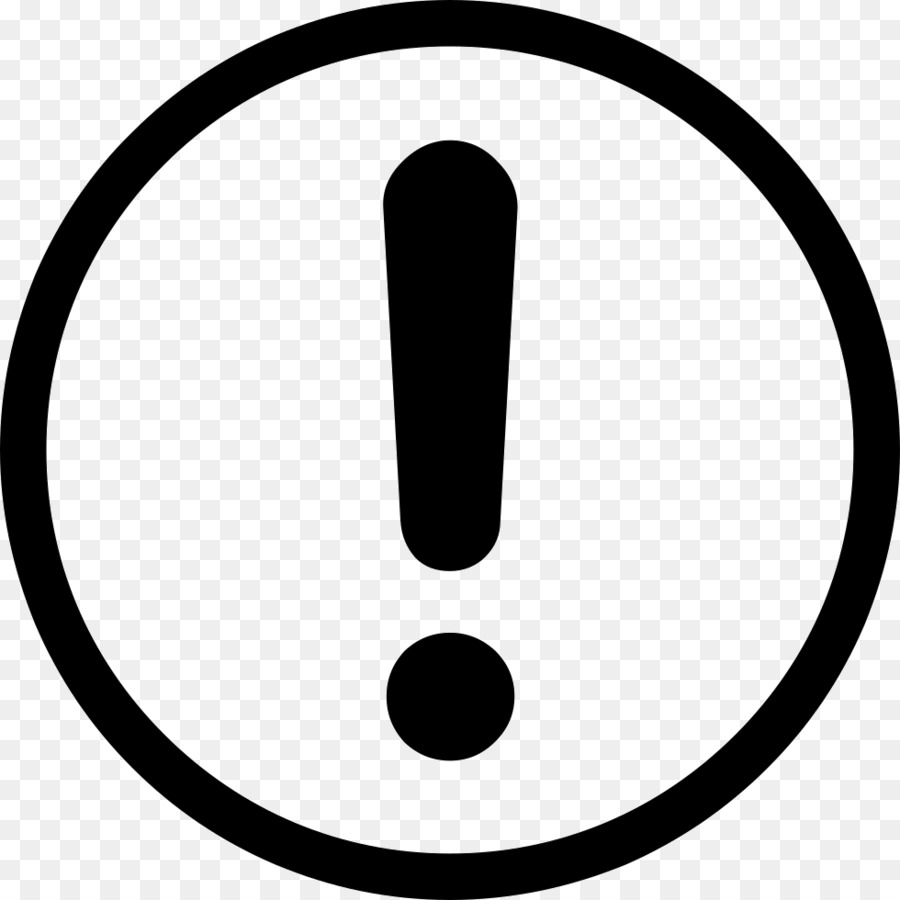
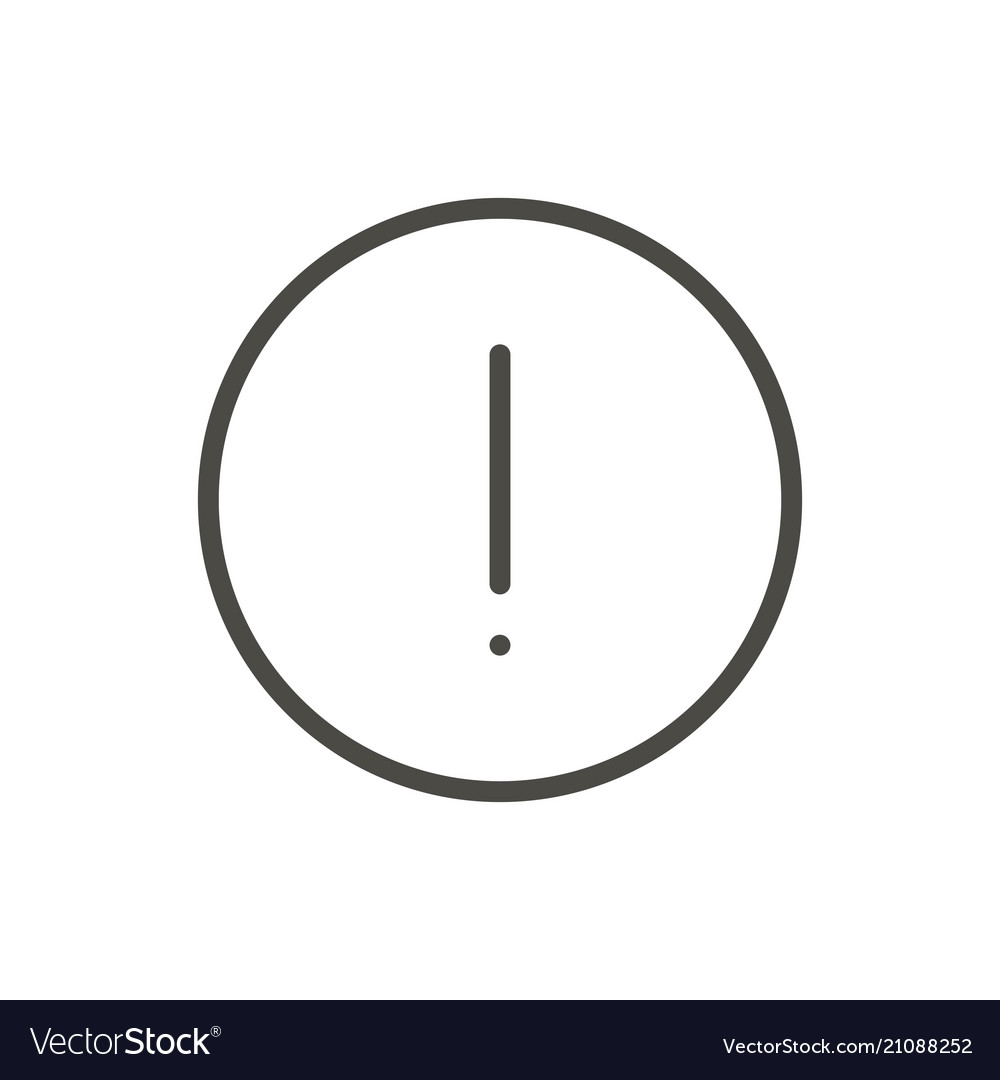
[Add] 업로드 선택 화면 만들기 #68
업로드 선택 화면 하단에 경고 메시지란을 추가함

diff --git a/client/src/components/UploadMain/style.tsx b/client/src/components/UploadMain/style.tsx
@@ -7,11 +7,13 @@ export const LinkBox = styled.div`
     width: 800px;
     height: 200px;
     align-items: center;
-    justify-content: space-around;
-    border: 2px solid palevioletred;
+    justify-content: center;
+    /* border: 2px solid palevioletred; */
 
     a {
         text-decoration: none;
+        margin-right: 20px;
+        margin-left: 20px;
     }
 `;
 
@@ -29,7 +31,22 @@ export const UploadMain = styled.div`
 `;
 
 export const Warn = styled.div`
-    border: 2px solid red;
-    font-size: 15px;
+    /* border: 2px solid red; */
+    font-size: 12px;
     margin-top: 20px;
+    display: flex;
+    align-items: center;
+    background: ${theme.WARN_GEAY};
+    padding: 15px 20px;
+
+    span {
+        color: ${theme.AMERICAN_RIVER};
+        margin-top: 5px;
+        margin-left: 5px;
+        margin-right: 15px;
+        img {
+            width: 40px;
+            height: auto;
+        }
+    }
 `;

diff --git a/client/src/components/UploadMain/index.tsx b/client/src/components/UploadMain/index.tsx
@@ -9,6 +9,7 @@ import {
 import UploadImage from '../UploadImage';
 import Basicbox from '../Basicbox';
 import * as S from './style';
+import circleWarn from '../../assets/circle_warn.png';
 
 function UploadMain() {
   return (
@@ -25,11 +26,11 @@ function Home() {
       <S.LinkBox>
         <Link to="/home/upload/image"><Basicbox name="이미지" /></Link>
         <Link to="/home/upload/music"><Basicbox name="음악" /></Link>
-        <Link to="/home/upload/background"><Basicbox name="배경화면" /></Link>
+        {/* <Link to="/home/upload/background"><Basicbox name="배경화면" /></Link> */}
       </S.LinkBox>
       <S.Warn>
         <span>
-          <img src="../assets/circle_warn.jpg" alt="Italian Trulli" />
+          <img src={circleWarn} alt="Italian Trulli" />
         </span>
         <span>
           업로드 시, 이 콘텐츠의 저작권 소유자이며&nbsp;

diff --git a/client/src/components/UploadImage/index.tsx b/client/src/components/UploadImage/index.tsx
@@ -17,8 +17,8 @@ interface ContentObject {
 
 const initDetailObject = {
   commentsAllow: true,
-  ccl: '',
-  field: '',
+  ccl: 'ALL',
+  field: '회화',
   public: true,
 };
 
@@ -49,7 +49,7 @@ function ImageUpload() {
     setDocumnets(tempDocuments);
 
     const reader = new FileReader();
-    const url = reader.readAsDataURL(newfile);
+    reader.readAsDataURL(newfile);
     reader.onloadend = (e) => {
       if (typeof reader.result === 'string') {
         setPreviews([...previews, reader.result]);
@@ -69,7 +69,7 @@ function ImageUpload() {
     setDocumnets(tempDocuments);
 
     const reader = new FileReader();
-    const url = reader.readAsDataURL(newfile);
+    reader.readAsDataURL(newfile);
     reader.onloadend = (e) => {
       if (typeof reader.result === 'string') {
         setPreviews([...previews, reader.result]);

diff --git a/client/src/style/theme.ts b/client/src/style/theme.ts
@@ -25,6 +25,7 @@ export const theme = {
   PRUNUS_AVIUM: '#e84393',
   DRACULA_ORCHID: '#2d3436',
   BORDER_GRAY: '#dddddd',
+  WARN_GEAY: '#F2F3F5',
 
   BLOR_TEXT: '#757575',
 
